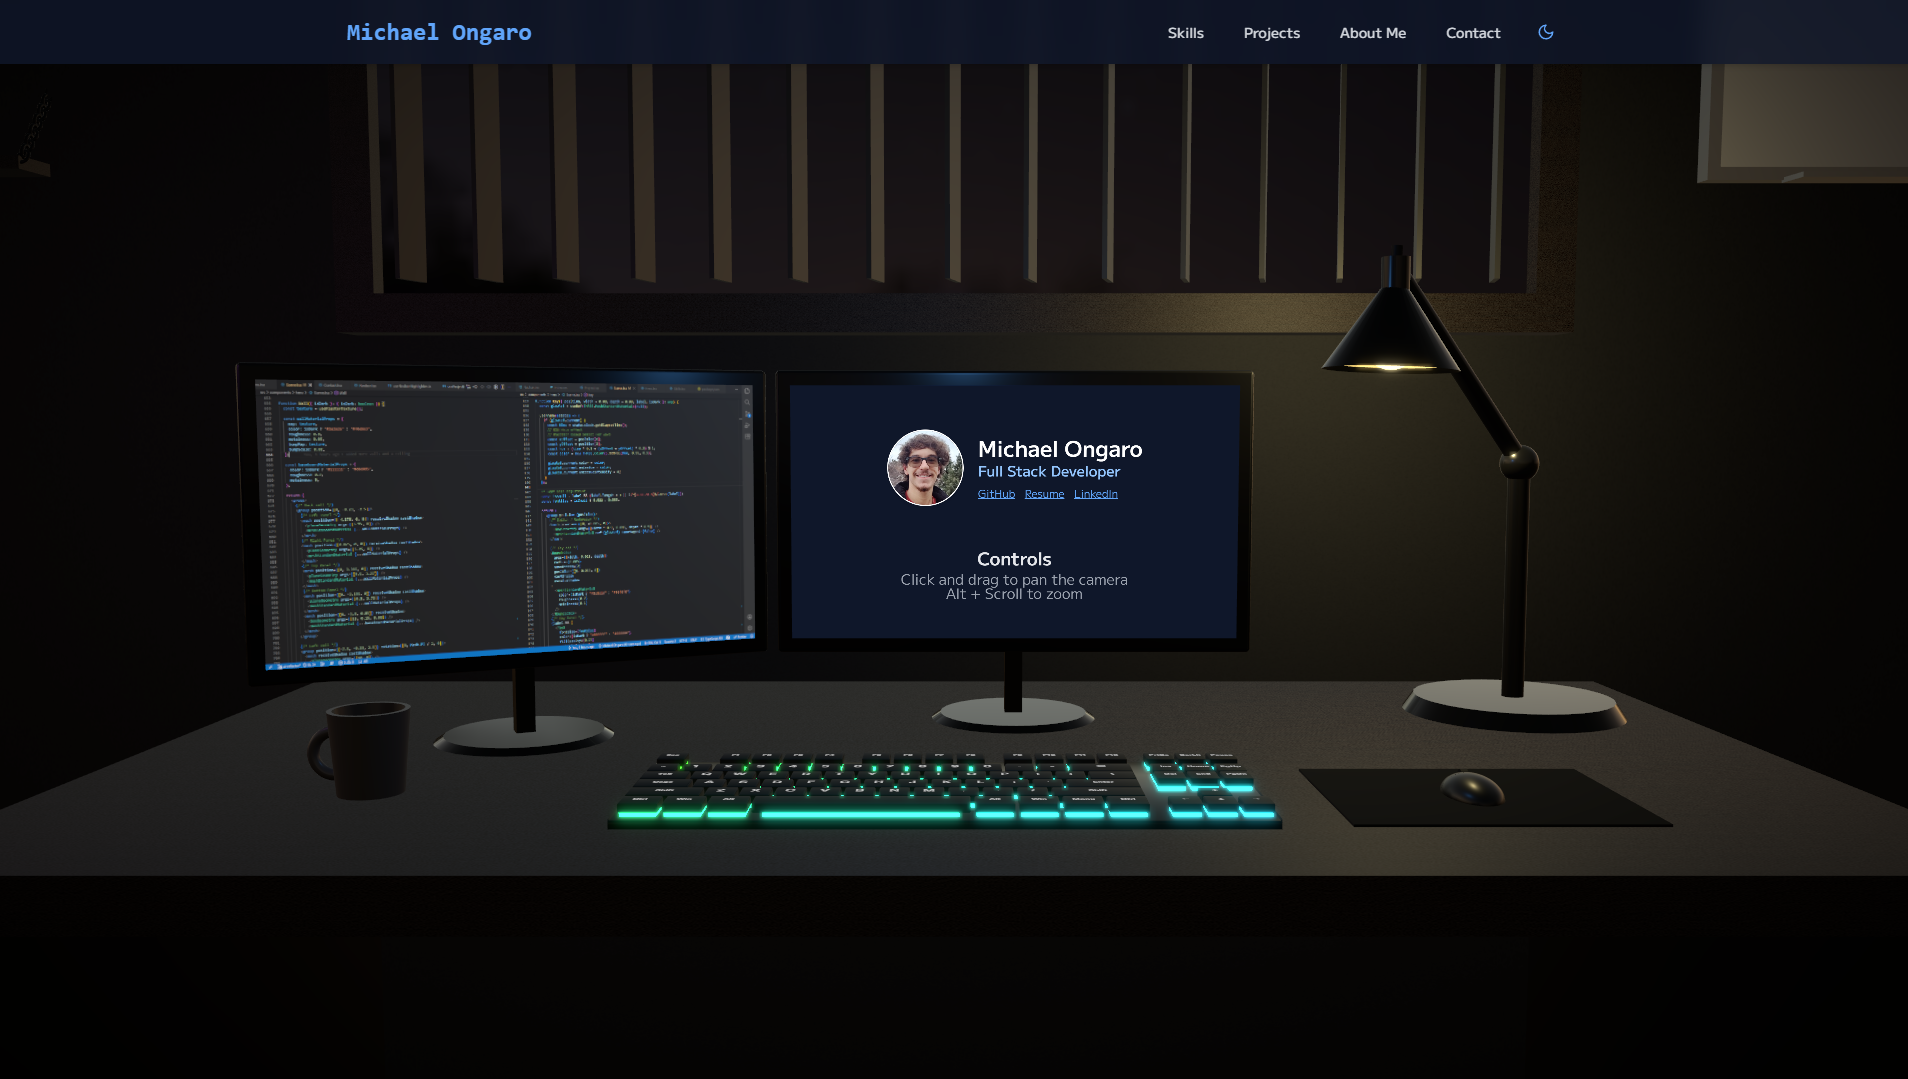
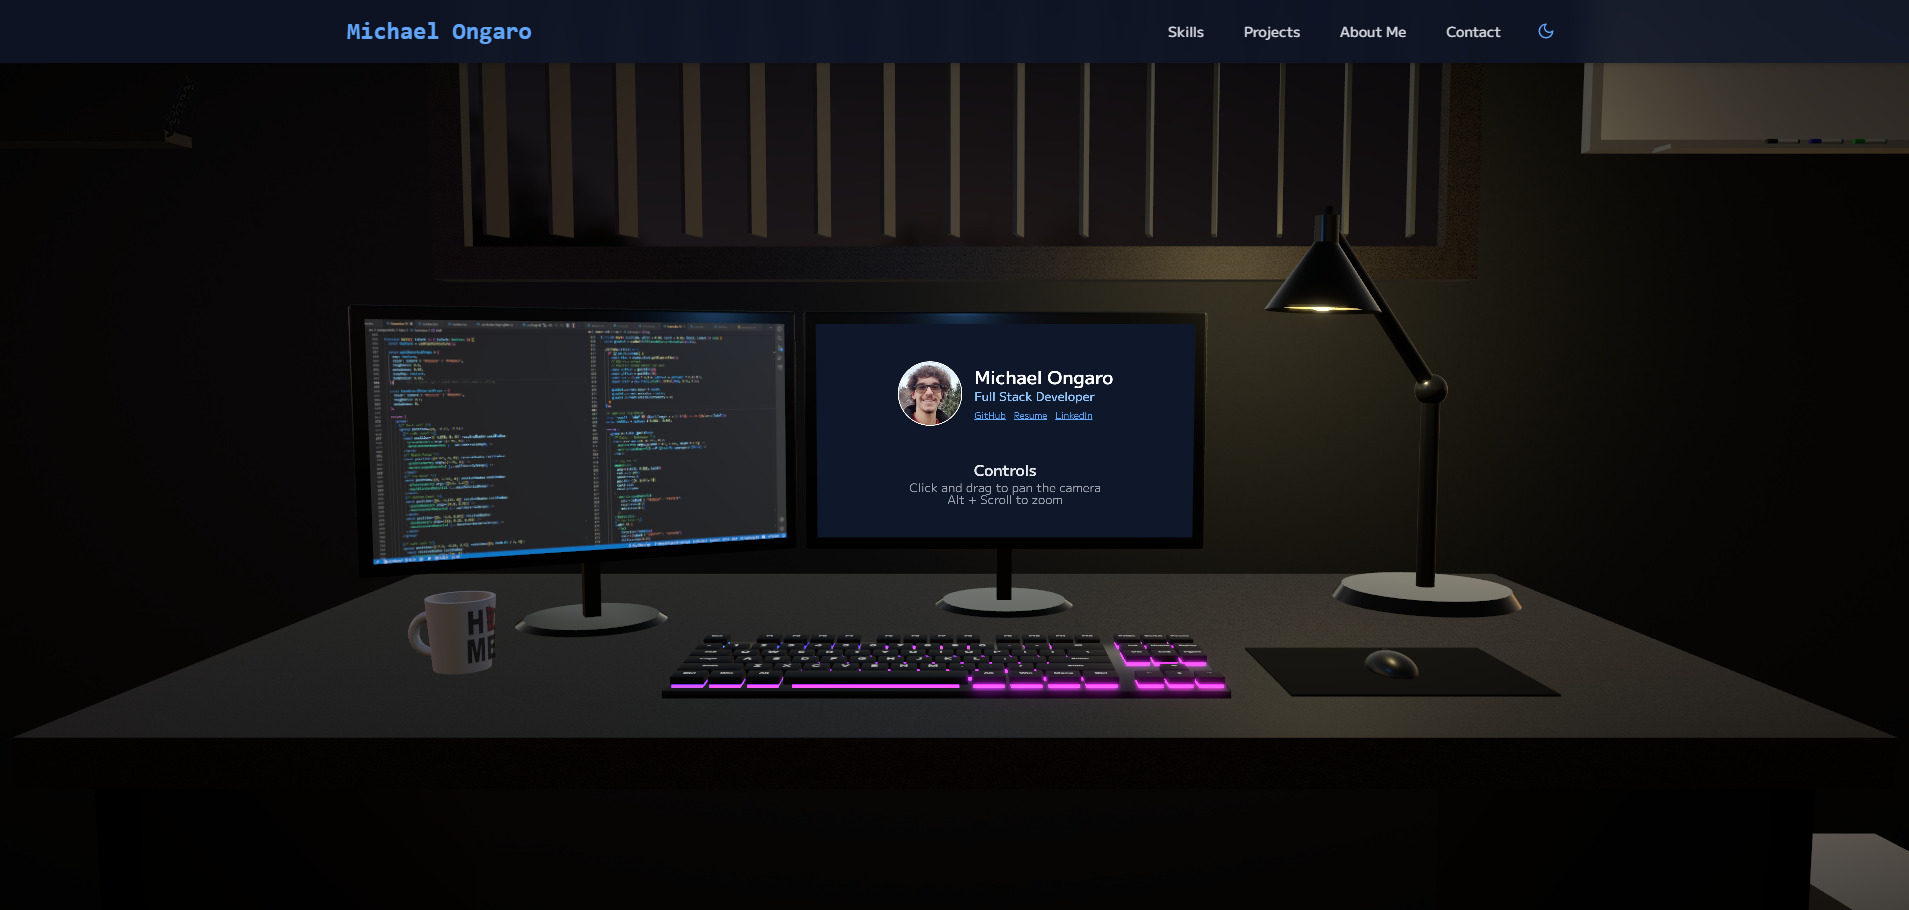
updated mug design + placeholder screenshots + opengraph image

diff --git a/src/components/hero/Scene.tsx b/src/components/hero/Scene.tsx
@@ -1073,70 +1073,72 @@ function DeskLamp({ position, rotation = [0, 0, 0], scale = 1, isDark }: any) {
   );
 }
 
-function MugDesign() {
+function MugDesign({ scale = 1 }: { scale?: number }) {
+  const mnPlaid = useTexture("/assets/mnPlaid.png");
+
   const texture = useMemo(() => {
     const canvas = document.createElement("canvas");
-    canvas.width = 512;
-    canvas.height = 512;
+    canvas.width = 800;
+    canvas.height = 800;
     const ctx = canvas.getContext("2d");
     if (ctx) {
       // Transparent background
-      ctx.clearRect(0, 0, 512, 512);
+      ctx.clearRect(0, 0, 800, 800);
+
+      // Apply scale
+      ctx.save();
+      ctx.translate(306, 426);
+      ctx.scale(scale, scale);
+      ctx.translate(-256, -256);
 
       // Draw Text
       ctx.fillStyle = "#000000";
-      ctx.font = "900 180px Inter, sans-serif";
+      ctx.font = "900 190px Inter, sans-serif";
       ctx.textAlign = "center";
       ctx.textBaseline = "middle";
 
-      // Grid positions
+      // Grid positions - Adjusted to be more centered to avoid clipping
+      const pos1 = 160;
+      const pos2 = 322;
+
       // Top Left: H
-      ctx.fillText("H", 140, 140);
+      ctx.fillText("H", pos1, pos1);
       // Bottom Left: M
-      ctx.fillText("M", 140, 372);
+      ctx.fillText("M", pos1, pos2);
       // Bottom Right: E
-      ctx.fillText("E", 372, 372);
+      ctx.fillText("E", pos2, pos2);
 
-      // Top Right: MN Shape
-      ctx.save();
-      ctx.translate(372, 140);
-      const scale = 1.5;
-      ctx.scale(scale, scale);
-      ctx.translate(-50, -50); // Center the 100x100 path
+      // Top Right: MN Image
+      if (mnPlaid.image) {
+        const imgSize = 180;
+        ctx.drawImage(
+          mnPlaid.image as CanvasImageSource,
+          pos2 - imgSize / 2 + 25,
+          pos1 - imgSize / 2 - 25,
+          imgSize,
+          imgSize
+        );
+      }
 
-      ctx.beginPath();
-      // MN Shape Path (approximate 0-100)
-      ctx.moveTo(20, 95); // Bottom Left
-      ctx.lineTo(80, 95); // Bottom Right
-      ctx.lineTo(85, 65); // Lower East slant
-      ctx.lineTo(98, 45); // Arrowhead tip
-      ctx.lineTo(70, 35); // Top of Arrowhead
-      ctx.lineTo(70, 20); // Top border
-      ctx.lineTo(40, 20); // Start of NW Angle
-      ctx.lineTo(40, 5); // Top of NW Angle
-      ctx.lineTo(20, 5); // Left of NW Angle
-      ctx.closePath();
-
-      ctx.fill();
       ctx.restore();
     }
     const tex = new THREE.CanvasTexture(canvas);
     tex.anisotropy = 16;
     return tex;
-  }, []);
+  }, [mnPlaid, scale]);
 
   return (
     <mesh position={[0, 0, 0]}>
       {/* Tapered cylinder segment to match mug */}
       <cylinderGeometry
         args={[
-          0.0805, // radiusTop (slightly larger than mug)
-          0.0655, // radiusBottom
-          0.12, // height
+          0.0805, // radiusTop
+          0.0805, // radiusBottom
+          0.19, // height
           32, // radialSegments
           1, // heightSegments
           true, // openEnded
-          Math.PI / 4, // thetaStart
+          Math.PI / 6, // thetaStart
           Math.PI / 2, // thetaLength
         ]}
       />
@@ -1146,15 +1148,15 @@ function MugDesign() {
         opacity={0.9}
         roughness={0.3}
         metalness={0.0}
-        side={THREE.DoubleSide}
+        side={THREE.FrontSide}
       />
     </mesh>
   );
 }
 
 function CoffeeMug({ position, scale = 1, isDark }: any) {
-  const mugColor = isDark ? "#4a4a4a" : "#f8f8f8";
-  const innerColor = isDark ? "#3a3a3a" : "#eeeeee";
+  const mugColor = "#f8f8f8";
+  const innerColor = "#eeeeee";
 
   return (
     <group position={position} scale={scale}>
@@ -1168,7 +1170,7 @@ function CoffeeMug({ position, scale = 1, isDark }: any) {
         />
       </mesh>
 
-      <MugDesign />
+      <MugDesign scale={1.75} />
 
       {/* Mug Bottom */}
       <mesh

diff --git a/index.html b/index.html
@@ -26,7 +26,7 @@
     />
     <meta
       property="og:image"
-      content="https://i.gyazo.com/83059530d9e2c02bb8ccb116a7551ca5.jpg"
+      content="https://www.michaelongaro.com/assets/threeJSScenePlaceholderLight.png"
     />
 
     <!-- Twitter Meta Tags -->
@@ -40,7 +40,7 @@
     />
     <meta
       name="twitter:image"
-      content="https://i.gyazo.com/83059530d9e2c02bb8ccb116a7551ca5.jpg"
+      content="https://www.michaelongaro.com/assets/threeJSScenePlaceholderLight.png"
     />
   </head>
   <body>
